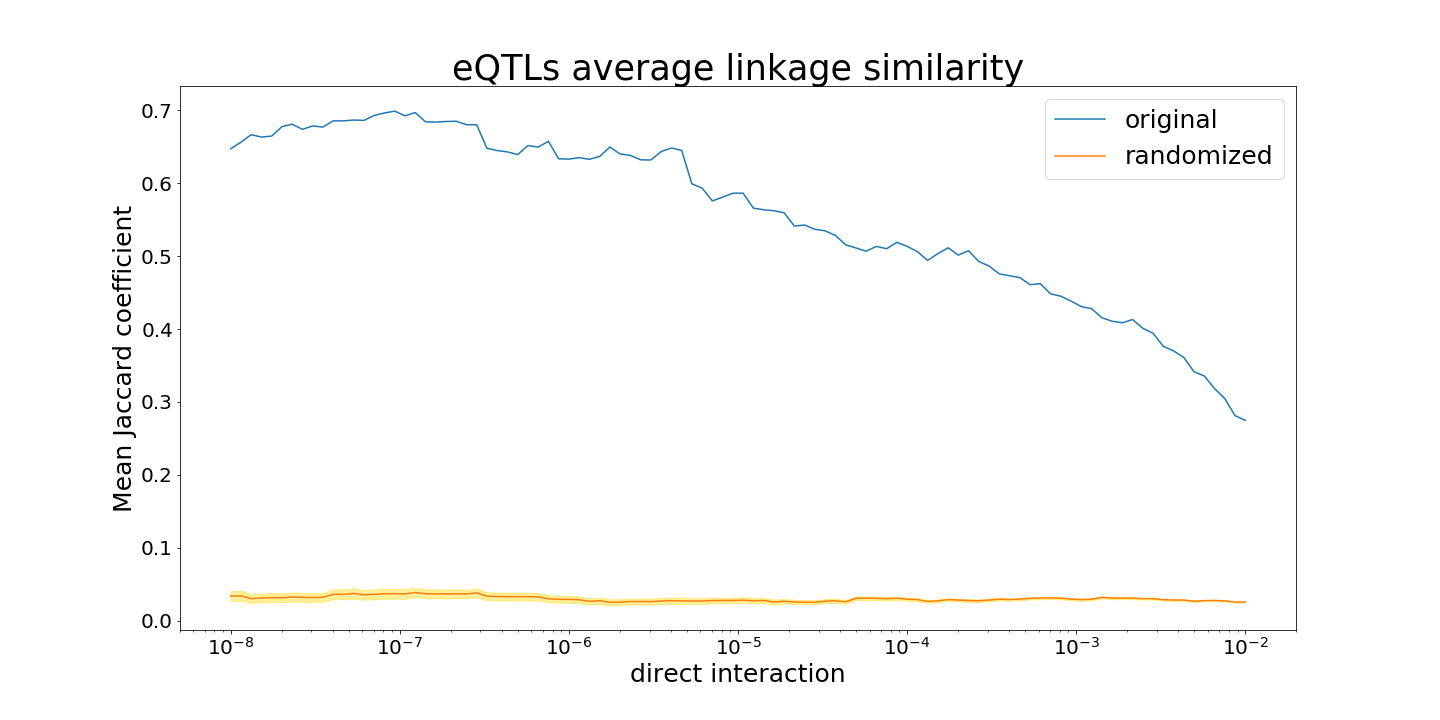
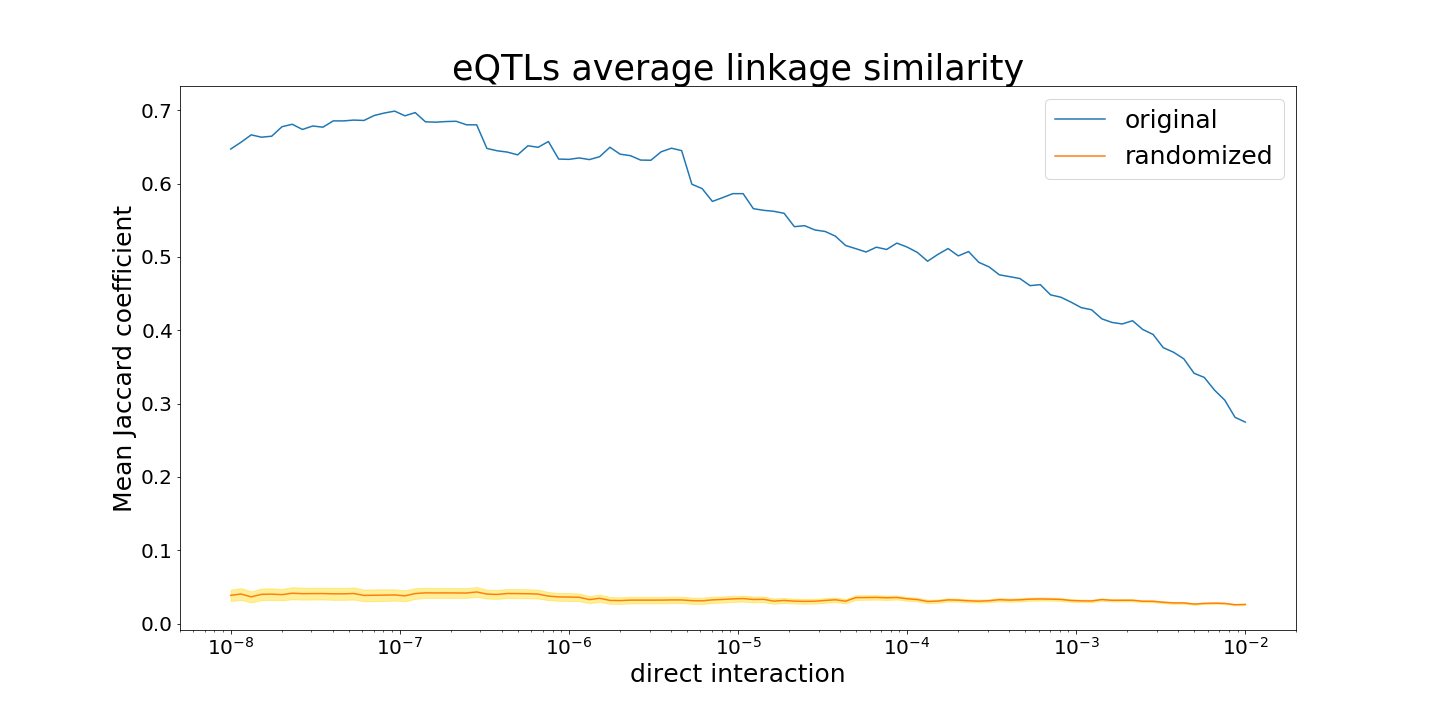
Separated module analysis into module.

diff --git a/lib/qtls.py b/lib/qtls.py
@@ -1,14 +1,11 @@
-from __future__ import print_function
+from multiprocessing import Pool, cpu_count
 
-import sys
-
+import matplotlib.pyplot as plt
 import numpy as np
+import scipy.stats as stats
 
-from .networks import assemble_graph_of_interactions
+import networks
 
-
-def eprint(*args, **kwargs):
-    print(*args, file=sys.stderr, **kwargs)
 
 # Returns a list of genes connected to gene_name in interactions_graph
 # where "connected" is interpreted as "reachable in bfs_depth steps".
@@ -32,7 +29,7 @@ def convert_to_sys(gene_name, std_to_sys):
 # full strain genotype lookup table, plot the number
 # of linkages against marker location in genome
 def map_linkages_to_genome_location(QTL_df, full_genotypes_df):
-    QTL_graph = assemble_graph_of_interactions(
+    QTL_graph = networks.assemble_graph_of_interactions(
         edges=QTL_df[["SNP", "gene"]].values,
         directed=True
     )
@@ -75,3 +72,85 @@ def map_linkages_to_genome_location(QTL_df, full_genotypes_df):
             )
         )
     return QTL_x, QTL_y
+
+
+class ModuleAnalyzer:
+    def __init__(self, qtl_type, qtl_df,
+                 module_name, module_graph,
+                 q_value_thresholds):
+        self.qtl_type = qtl_type
+        self.qtl_df = qtl_df
+        self.mname = module_name
+        self.mgraph = module_graph
+        self.qval_list = q_value_thresholds
+
+    def _range_mean_linkage_similarity(self, graph_to_test):
+        '''
+        Given a dataframe of QTL linkages and a list of q-value thresholds, loops through them,
+        filtering out the linkages that fall behind the confidence interval, and calculates
+        the averaged linkage similarity (Jaccard coefficient) for QTL sets linked to interacting genes
+
+        :param QTL_df: Linkage dataframe. Must contain "SNP" and "gene" columns.
+        :param interaction_graph: Subgraph of interactome corresponding to some certain type of interactions.
+        :param q_value_thresholds: List of q-value thresholds.
+        :return: Numpy array of averaged jaccard coefficients for every threshold given.
+
+        '''
+        num_thresholds = len(self.qval_list)
+        jaccard = np.zeros(num_thresholds, dtype=np.float32)
+        qtl_df = self.qtl_df
+        for idx, Q_THRESHOLD in enumerate(self.qval_list[::-1]):
+            qtl_df = qtl_df[qtl_df['q.value'] <= Q_THRESHOLD]
+            qtl_graph = networks.assemble_graph_of_interactions(
+                edges=qtl_df[["SNP", "gene"]].values,
+                directed=True
+            )
+            jaccard[num_thresholds - idx - 1] = \
+                networks.mean_linkage_similarity(graph_to_test, qtl_graph)
+        return jaccard
+
+    def _randomized_statistics(self, __dummy_arg):
+        randomized_mgraph = self.mgraph.Degree_Sequence(
+            self.mgraph.degree(),
+            method="vl"
+        )
+        randomized_mgraph.vs["name"] = self.mgraph.vs["name"]
+        return self._range_mean_linkage_similarity(randomized_mgraph)
+
+    def test_linkage_robustness(self, randomization_iterations=64):
+        actual_stats = self._range_mean_linkage_similarity(self.mgraph)
+        pool = Pool(processes=cpu_count())
+        simulation_stats = np.vstack(
+            pool.map(
+                self._randomized_statistics,
+                range(randomization_iterations)
+            ))
+        pool.close()
+        pool.join()
+        return actual_stats, simulation_stats
+
+    def plot_robustness_analysis(self, actual_stats, simulation_stats):
+        plt.figure(figsize=(20, 10))
+        plt.title('{} average linkage similarity'.format(self.qtl_type), fontsize=35)
+        plt.xscale('log')
+
+        plt.plot(self.qval_list, actual_stats, label="original")
+        # Display also the confidence interval to estimate the statistical strength of conclusions
+        plt.plot(self.qval_list, simulation_stats.mean(axis=0), label="randomized")
+        CI = stats.t.interval(
+            0.95,
+            len(self.qval_list) - 1,
+            loc=np.mean(simulation_stats, axis=0),
+            scale=stats.sem(simulation_stats, axis=0)
+        )
+        plt.fill_between(self.qval_list, CI[0], CI[1], color="#FFD700", alpha=0.4)
+
+        plt.xticks(fontsize=20)
+        plt.yticks(fontsize=20)
+
+        plt.xlabel("{}".format(self.mname), fontsize=25)
+        plt.ylabel("Mean Jaccard coefficient", fontsize=25)
+        plt.legend(fontsize=25)
+
+        plt.savefig("./img/interactions/" + self.qtl_type + '_' + self.mname + ".png")
+        plt.close()
